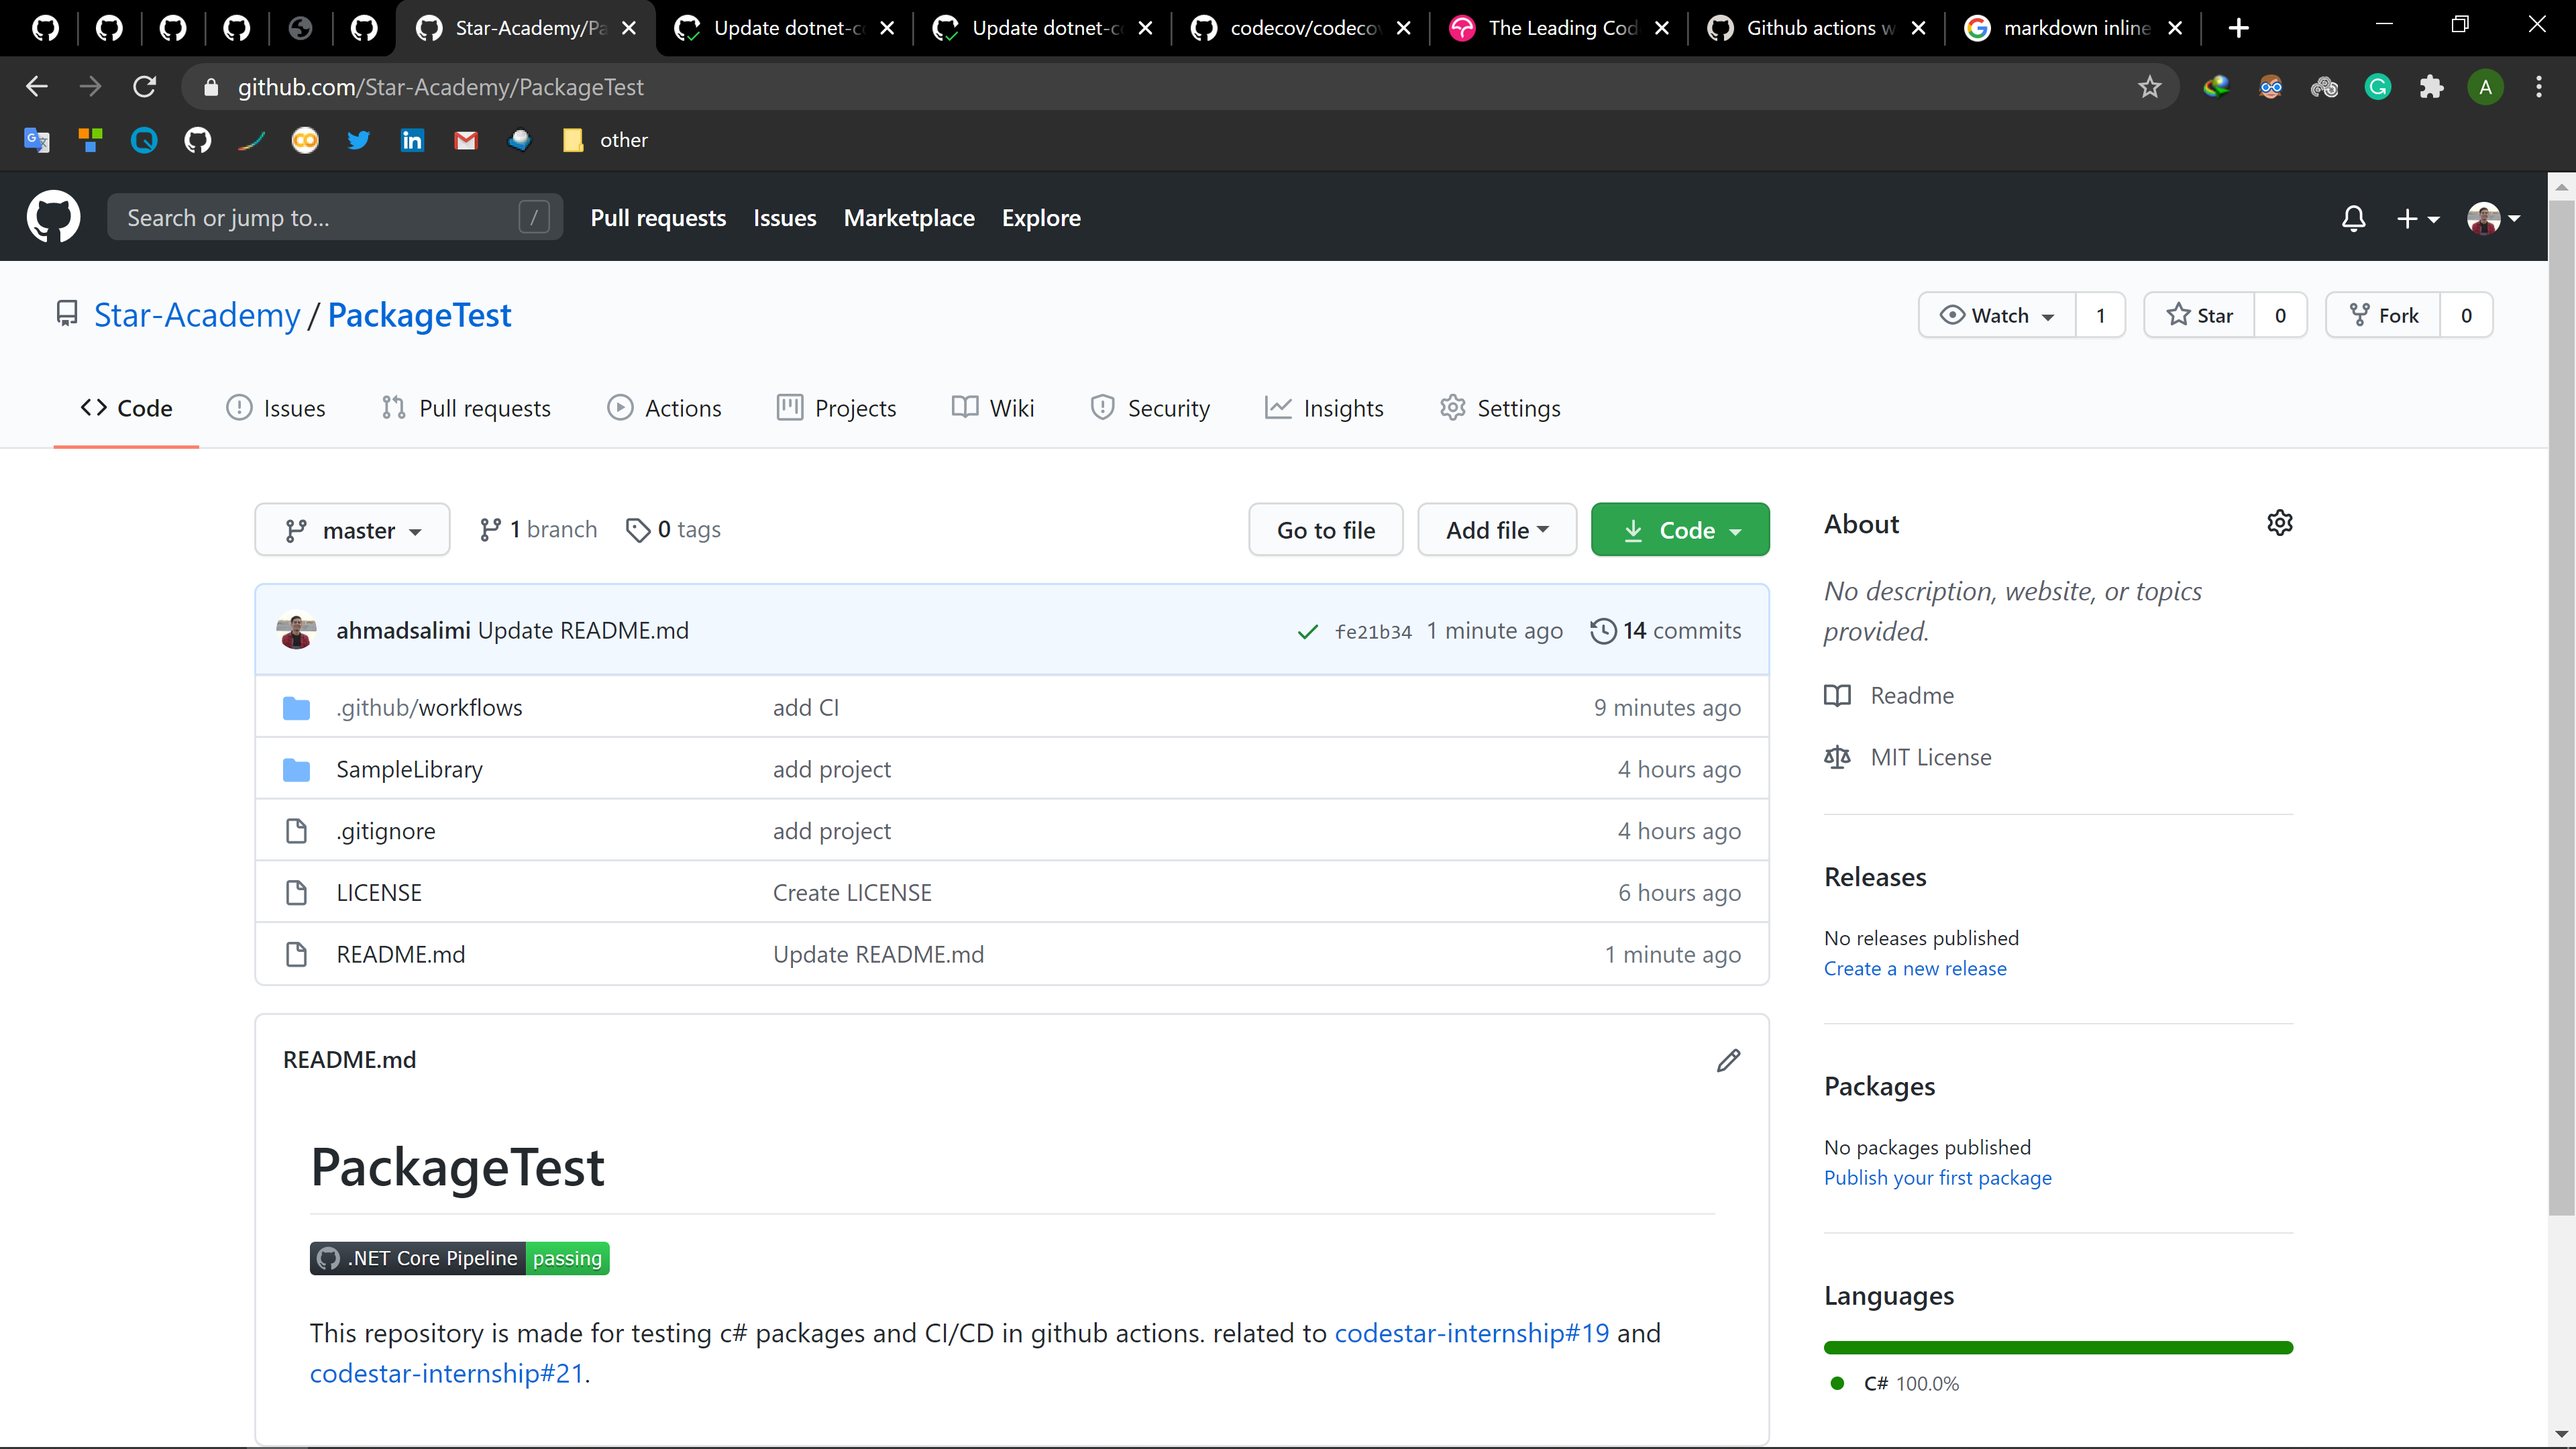
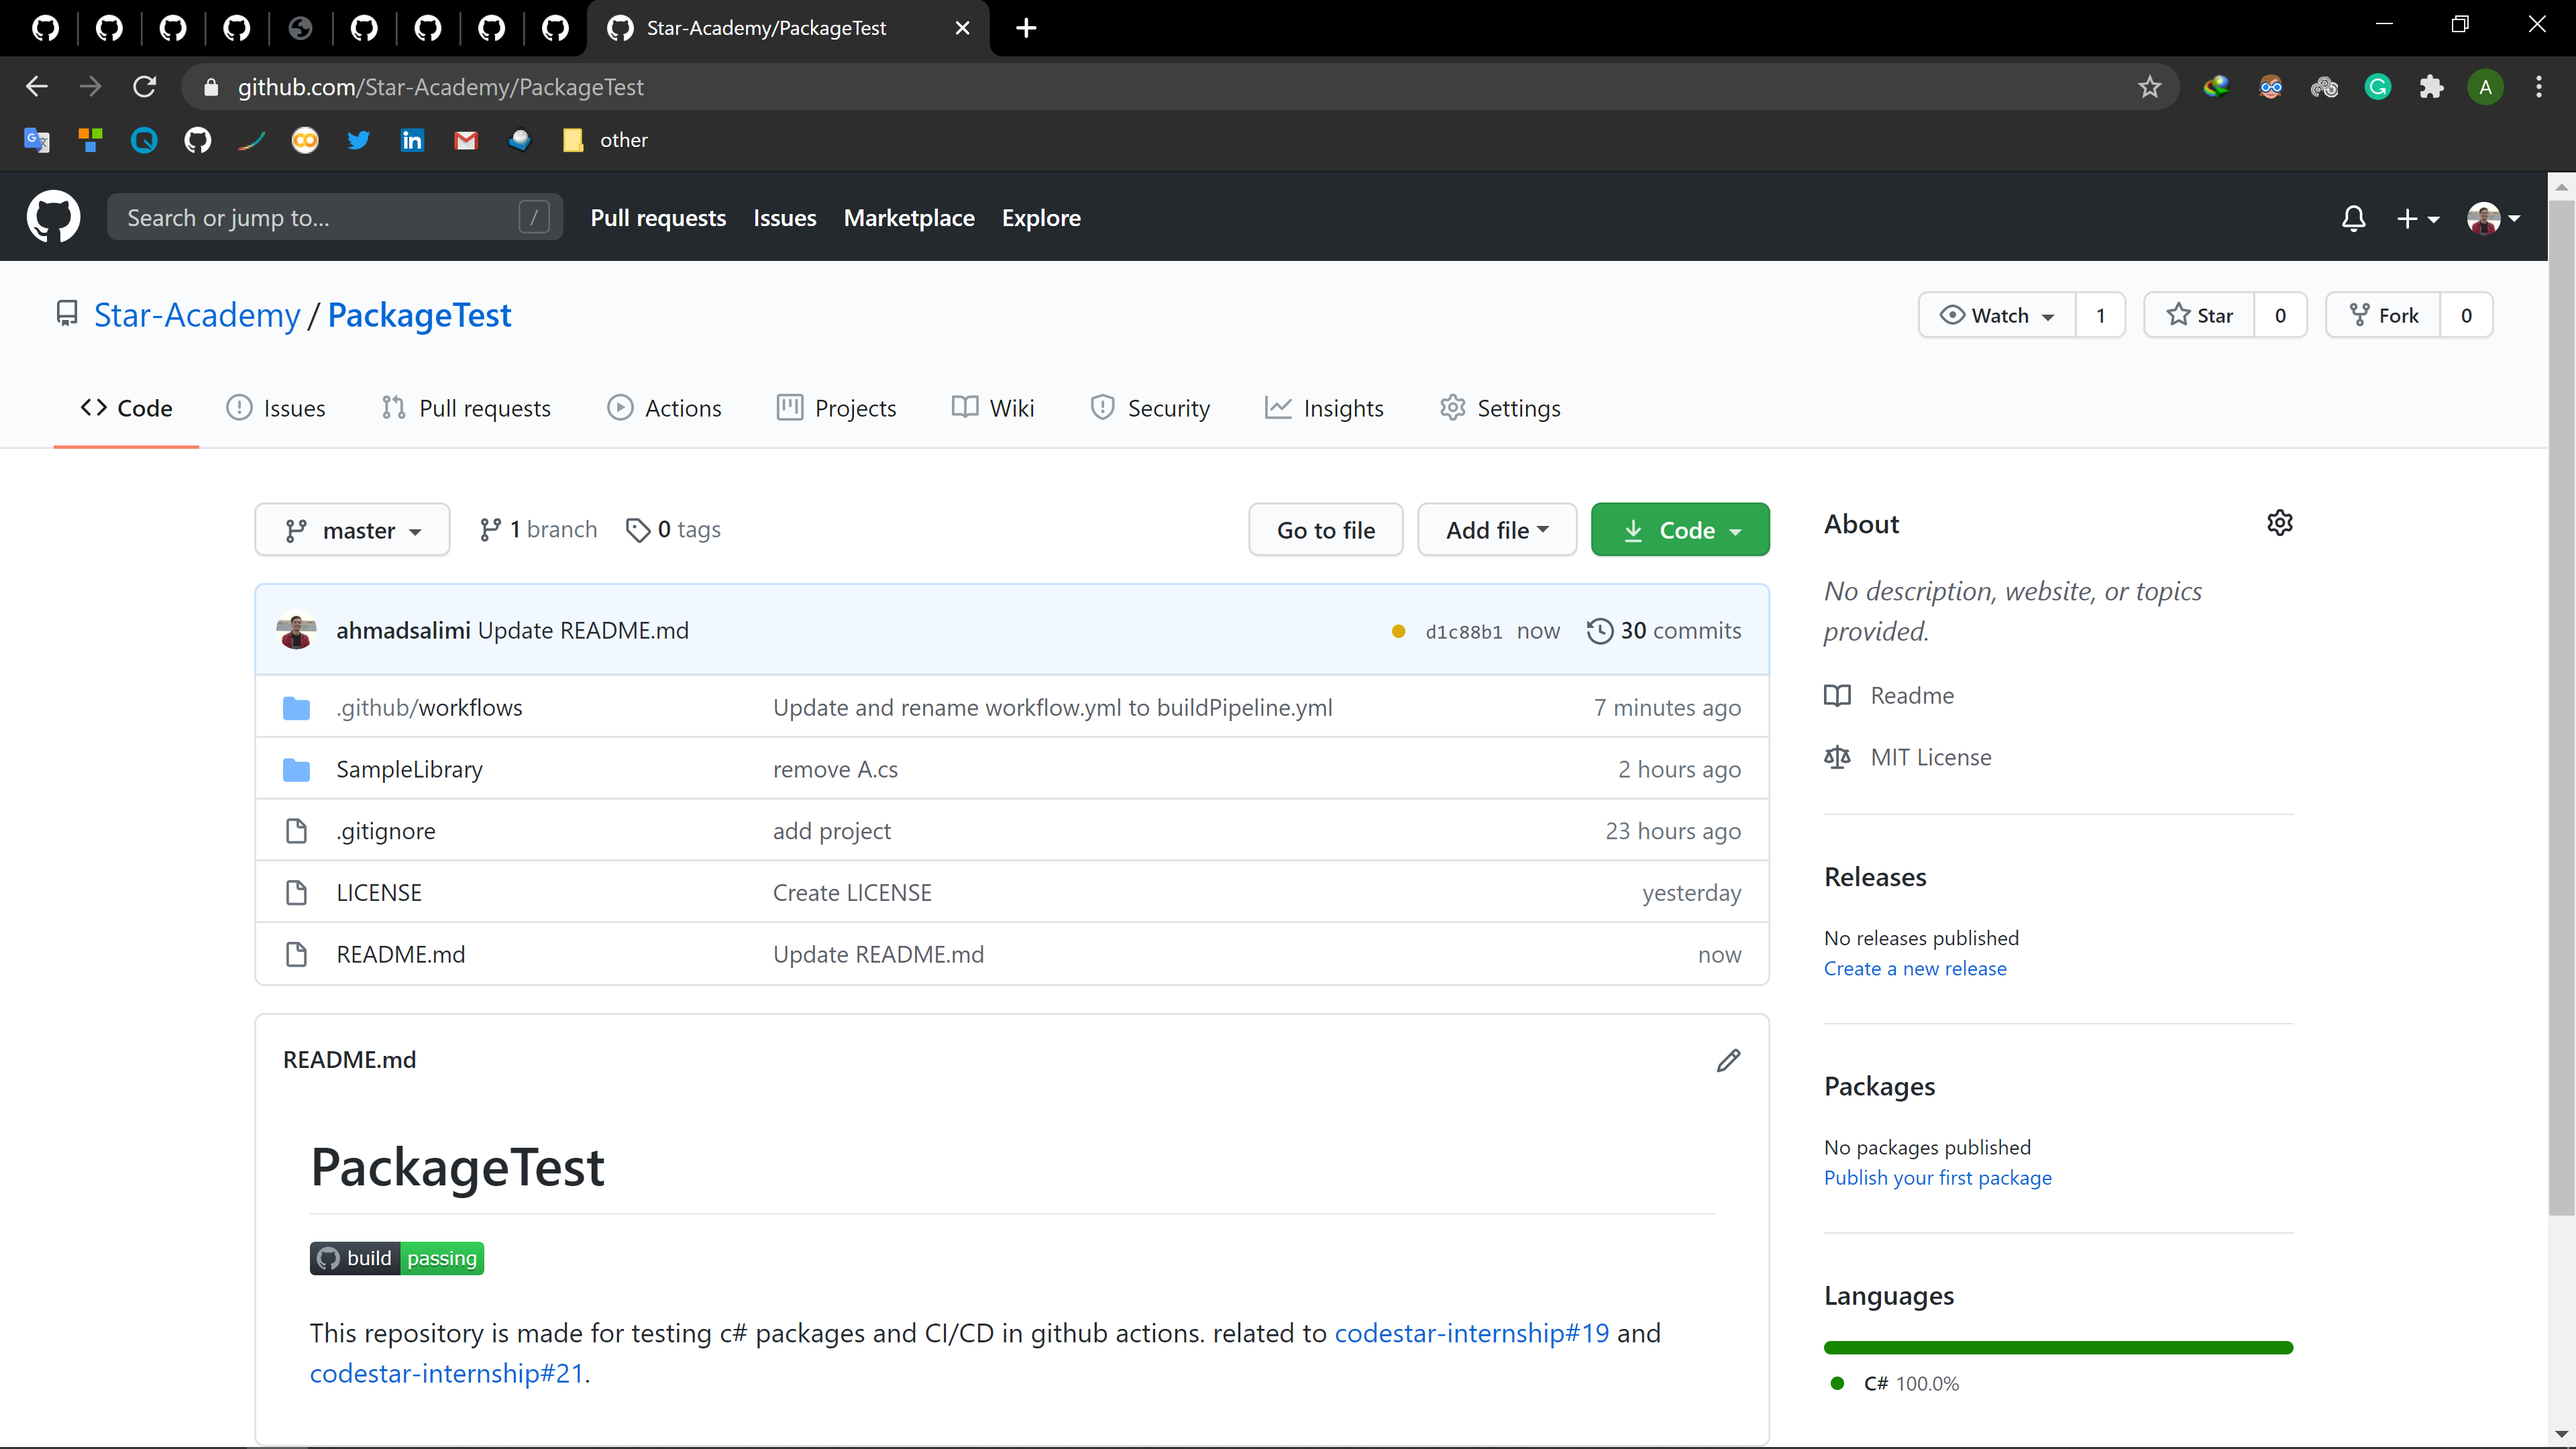
add CD pipeline

diff --git a/Projects/Phase06-CI.md b/Projects/Phase06-CI.md
@@ -32,21 +32,22 @@
     و دیگر عملیاتی که در دستهٔ CI/CD
     میگنجد را به ریپازیتوری گیتهاب خود اضافه کنید. برای این کار مراحل زیر را دنبال کنید:
 
-    1. فایل زیر را در دایرکتوری اصلی ریپازیتوری خود بسازید:
+    1. فایل زیر را در مسیر زیر در ریپازیتوری خود بسازید:
 
         <div dir="ltr">
 
         ```
-        .github/workflows/pipeline.yml
+        .github/workflows/buildPipeline.yml
         ```
 
         </div>
-    1. برای pipeline خود یک نام تعریف کنید: (به فایل `workflow.yml` اضافه کنید.)
+
+    1. برای pipeline خود یک نام تعریف کنید: (به فایل `buildPipeline.yml` اضافه کنید.)
 
         <div dir="ltr">
 
         ```yml
-        name: .NET Core Pipeline
+        name: build
         ```
 
         </div>
@@ -144,7 +145,7 @@
         پوش کنید.
 
         در ریپازیتوری خود وارد منوی Actions
-        شوید؛ همانطور که مشاهده میکنید، اولین اجرای Pipeline
+        شوید؛ همانطور که مشاهده میکنید، اجرای Pipeline
         شما در حال انجام است:
 
         ![](Phase06_Actions.png)
@@ -181,7 +182,7 @@
 
         </div>
     
-    1. بخش زیر را به فایل `workflow.yml` اضافه کنید:
+    1. بخش زیر را به فایل `buildPipeline.yml` اضافه کنید:
 
         <div dir="ltr">
 
@@ -214,16 +215,203 @@
         شما نیز نمایش داده میشود:
 
         ![](Phase06_CodcovBadge.png)
-    
-    1. انتشار package در GitHub Nuget server:
 
-        Nuget،
+        تا به اینجای کار، کل فایل `buildPipeline.yml`
+        باید بصورت زیر باشد:
+
+        <div dir="ltr">
+
+        ```yml
+        name: build
+
+        on:
+          push:
+            branches: [ master ]
+          pull_request:
+            branches: [ master ]
+        
+        jobs:
+          build:
+            runs-on: ubuntu-latest
+
+            steps:
+            - uses: actions/checkout@v2
+
+            - name: Setup .NET Core
+              uses: actions/setup-dotnet@v1
+              with:
+                dotnet-version: 3.1.301
+            
+            - name: Install dependencies
+              run: dotnet restore
+              working-directory: <path to solution>
+
+            - name: Build
+              run: dotnet build --configuration Release --no-restore
+              working-directory: <path to solution>
+
+            - name: Test
+              run: dotnet test --no-restore --verbosity normal --collect:"XPlat Code Coverage"
+              working-directory: <path to solution>
+
+            - name: Publish code coverage reports to codecove.io
+              uses: codecov/codecov-action@v1
+              with:
+                token: ${{ secrets.CODECOV_TOKEN }}
+                files: ./**/coverage.cobertura.xml
+                fail_ci_if_error: true
+        ```
+
+        </div>
+
+    
+    1. انتشار package در GitHub NuGet server:
+
+        NuGet،
         پکیج منیجر معروف مایکروسافت برای انتشار پکیجهای .Net
-        است. برای آن که بفهمید Nuget
+        است. برای آن که بفهمید NuGet
         چیست،
         [این](https://docs.microsoft.com/en-us/nuget/what-is-nuget)
-        لینک را مطالعه کنید. در این مرحله، میخواهیم به Pipeline ریپازیتوریمان مرحلهای اضافه کنیم که به ازای هر push
-        روی ریپازیتوری، 
+        لینک را مطالعه کنید. در این مرحله، میخواهیم یک Pipeline
+        جدید بسازیم که فقط هنگام push
+        روی برنچ master،
+        پکیج را منتشر کند.
+
+        ابتدا باید مشخصات package
+        را در فایل `csprog.`
+        مربوط به پروژهٔ خود مشخص کنید. بدین منظور، این فایل باید به صورت زیر باشد:
+        (توجه کنید که در این فایل، به جای `[TeamNumber]`
+        شمارهٔ تیم خود و به جای `[LibraryName]`
+        نام پروژهٔ خود را قرار دهید. شماره تیم به این خاطر باید قرار داده شود که اگر نام پروژه دو تیم یکسان بود، publish
+        دچار مشکل نشود و در نهایت `PackageId`
+        یکتا باشد.)
+
+        <div dir="ltr">
+
+        ```xml
+        <Project Sdk="Microsoft.NET.Sdk">
+
+            <PropertyGroup>
+                <TargetFramework>netstandard2.0</TargetFramework>
+                <PackageId>StarAcademy.Team-[TeamNumber].[LibraryName]</PackageId>
+                <Authors>[TeamMembers]</Authors>
+                <Company>Star Academy</Company>
+            </PropertyGroup>
+
+        </Project>
+        ```
+
+        </div>
+        
+        در ادامه، برای ساخت Pipline
+        مربوط به publish،
+        فایل زیر را بسازید:
+
+        <div dir="ltr">
+
+        ```
+        .github/workflows/publishPipeline.yml
+        ```
+
+        </div>
+
+        سپس مراحل زیر را به آن اضافه کنید:
+
+        - نام و trigger را مشخص میکنیم:
+
+        <div dir="ltr">
+
+        ```yml
+        name: publish
+
+        on:
+          push:
+            branches: [ master ]
+
+        jobs:
+          publish:
+            runs-on: ubuntu-latest
+
+        ```
+
+        </div>
+        
+        - نصب .Net Core:
+
+        <div dir="ltr">
+
+        ```yml
+            steps:
+            - uses: actions/checkout@v2
+
+            - name: Setup .NET Core
+              uses: actions/setup-dotnet@v1
+              with:
+                dotnet-version: 3.1.301
+        ```
+
+        </div>
+
+        - build و ساخت پکیج NuGet
+        (به جای `<path to classlib project>`
+        آدرس فولدری که فایل `csprog.`
+        مربوط به پروژه class library
+        قرار دارد را بنویسید.)
+
+        <div dir="ltr">
+
+        ```yml
+            - name: Build library and generate NuGet Package
+              run: dotnet pack -c Release -o artifacts -p:PackageVersion=1.0.${{ github.run_number }}
+              working-directory: <path to classlib project>
+        ```
+
+        </div>
+
+        - انتشار پکیج NuGet
+
+        <div dir="ltr">
+
+        ```yml
+            - name: Publish NuGet Package
+              run: dotnet nuget push ./**/*.nupkg -k ${{ secrets.NUGET_API_KEY }} -s https://api.nuget.org/v3/index.json
+        ```
+
+        </div>
+
+        پس از push
+        کردن این تغییرات، میتوانید در منوی Actions
+        وضعیت publish
+        را مشاهده کنید. همچنین پکیج منتشر شدهٔ خود را میتوانید در آدرس زیر مشاهده کنید:
+        
+        <div dir="ltr">
+
+        ```
+            nuget.org/packages/[PackageId]
+        ```
+
+        </div>
+
+1. ساخت یک Console App برای پروژه سرچ
+
+    در این بخش، یک solution
+    دیگر بسازید، و در آن با dotnet cli
+    یک console app
+    بسازید. در پوشه پروژه کنسول، کامند زیر را بزنید تا پکیج سرچ شما به پروژه کنسول اضافه شود:
+
+    <div dir="ltr">
+
+    ```
+        dotnet add package [packageId]
+    ```
+
+    </div>
+
+    با این پکیج به پروژه شما اضافه میشود و میتوانید از کلاسهای آن استفاده کنید. همچنین اگر پکیج خود را update
+    کرده باشید، با زدن این کامند، نسخه جدید پکیج به پروژه شما اضافه میشود.
+
+    حال با استفاده از پکیج کتابخانه سرچتان، یک نرمافزار سرچ تحت کنسول پیادهسازی کنید.
+
 
 
 
